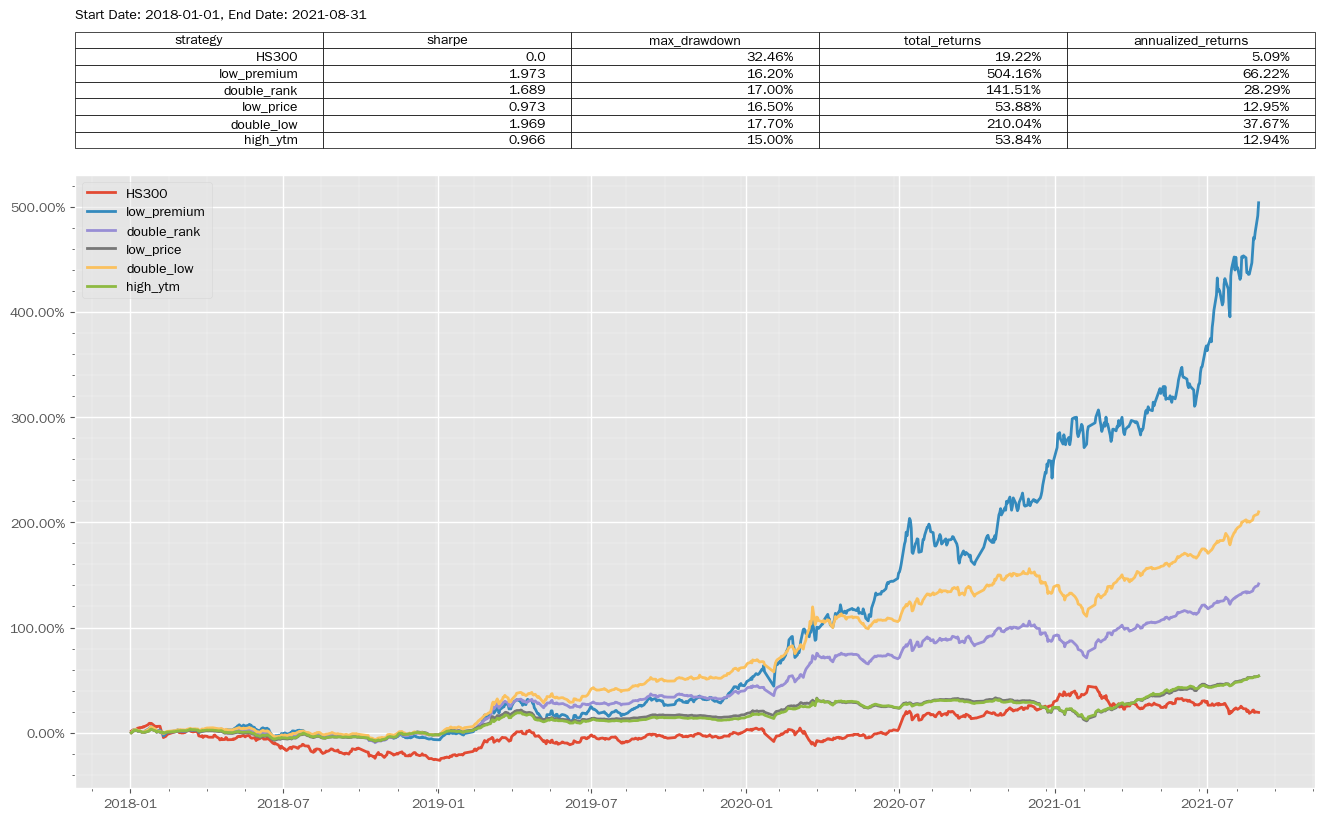
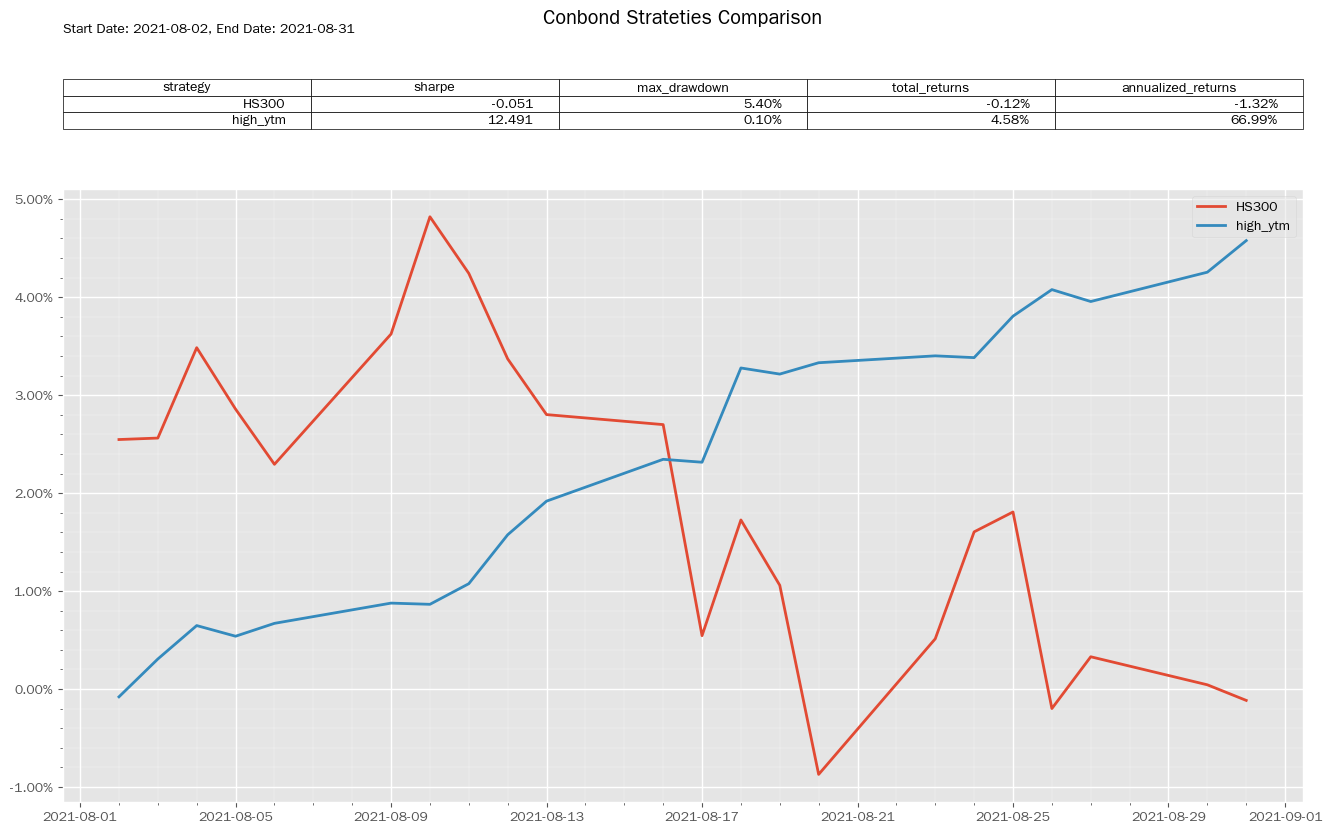
Sharpe for benchmark

diff --git a/library/conbond/strategy.py b/library/conbond/strategy.py
@@ -24,14 +24,7 @@ def multi_factors_weighted_linear(df, txn_day, config, score_col, rank_col):
 
 
 def post_scoring(df, txn_day, config, score_col, rank_col):
-    df = apply_filters(df, config['filters'], txn_day)
-    df = df.sort_values(score_col, ascending=config['asc']).reset_index()
-    df[rank_col] = df.index.to_series()
-    return df.set_index('order_book_id')
-
-
-def apply_filters(df, filters, today):
-    def filter_conbond(bond, filters=filters, today=today):
+    def filter_conbond(bond, filters=config['filters'], today=txn_day):
         values = bond.to_dict()
         values['today'] = str(today)
         for reason, cond in filters.items():
@@ -42,8 +35,104 @@ def apply_filters(df, filters, today):
                 print(cond.format(**values))
                 raise e
         return False, ''
-
     df[['filtered', 'filtered_reason']] = df.apply(filter_conbond,
                                                    axis=1,
                                                    result_type='expand')
-    return df
+    df = df.sort_values(score_col, ascending=config['asc']).reset_index()
+    df[rank_col] = df.index.to_series()
+    return df.set_index('order_book_id')
+
+
+def plot_results(results, savefile=None):
+    from matplotlib import rcParams, gridspec, ticker, image as mpimg, pyplot as plt
+    from matplotlib.font_manager import findfont, FontProperties
+    import numpy as np
+
+    rcParams['font.family'] = 'sans-serif'
+    rcParams['font.sans-serif'] = [
+        u'Microsoft Yahei',
+        u'Heiti SC',
+        u'Heiti TC',
+        u'STHeiti',
+        u'WenQuanYi Zen Hei',
+        u'WenQuanYi Micro Hei',
+        u'文泉驿微米黑',
+        u'SimHei',
+    ] + rcParams['font.sans-serif']
+    rcParams['axes.unicode_minus'] = False
+
+    use_chinese_fonts = True
+    font = findfont(FontProperties(family=['sans-serif']))
+    if '/matplotlib/' in font:
+        use_chinese_fonts = False
+        logging.warn('Missing Chinese fonts. Fallback to English.')
+
+    title = 'Conbond Strateties Comparison'
+    benchmark_portfolio = None
+    start_date = None
+    end_date = None
+    plt.style.use('ggplot')
+    img_width = 16
+    img_height = 10
+    fig = plt.figure(title, figsize=(img_width, img_height))
+    gs = gridspec.GridSpec(img_height, img_width)
+    ax = plt.subplot(gs[2:img_height, :])
+    ax.get_xaxis().set_minor_locator(ticker.AutoMinorLocator())
+    ax.get_yaxis().set_minor_locator(ticker.AutoMinorLocator())
+    ax.grid(b=True, which='minor', linewidth=.2)
+    ax.grid(b=True, which='major', linewidth=1)
+    table_data = {}
+    table_columns = [
+        'sharpe', 'max_drawdown', 'total_returns', 'annualized_returns'
+    ]
+    for strategy, result_dict in results.items():
+        summary = result_dict['summary']
+
+        if benchmark_portfolio is None:
+            benchmark_portfolio = result_dict.get('benchmark_portfolio')
+            start_date = result_dict.get('summary')['start_date']
+            end_date = result_dict.get('summary')['end_date']
+            index = benchmark_portfolio.index
+            portfolio_value = benchmark_portfolio.unit_net_value
+            xs = portfolio_value.values
+            rt = benchmark_portfolio.unit_net_value.values
+            ax.plot(benchmark_portfolio['unit_net_value'] - 1.0,
+                    label='HS300',
+                    alpha=1,
+                    linewidth=2)
+            table_data['HS300'] = [
+                summary['benchmark_sharpe'], summary['benchmark_max_drawdown'],
+                summary['benchmark_total_returns'],
+                summary['benchmark_annualized_returns']
+            ]
+        table_data[strategy] = [summary[col] for col in table_columns]
+
+        portfolio = result_dict['portfolio']
+        ax.plot(portfolio['unit_net_value'] - 1.0,
+                label=strategy,
+                alpha=1,
+                linewidth=2)
+
+    # place legend
+    leg = plt.legend(loc='best')
+    leg.get_frame().set_alpha(0.5)
+
+    # manipulate axis
+    vals = ax.get_yticks()
+    ax.set_yticklabels(['{:3.2f}%'.format(x * 100) for x in vals])
+
+    df = pd.DataFrame.from_dict(table_data,
+                                orient='index',
+                                columns=table_columns).reset_index().rename(
+                                    columns={'index': 'strategy'})
+    df[['max_drawdown', 'total_returns', 'annualized_returns'
+        ]] = df[['max_drawdown', 'total_returns',
+                 'annualized_returns']].applymap('{0:.2%}'.format)
+    ax2 = plt.subplot(gs[0:2, :])
+    ax2.set_title(title)
+    ax2.text(0, 1, 'Start Date: %s, End Date: %s' % (start_date, end_date))
+    ax2.table(cellText=df.values, colLabels=df.columns, loc='center')
+    ax2.axis('off')
+
+    if savefile:
+        plt.savefig(savefile, bbox_inches='tight')

diff --git a/examples/backtest.py b/examples/backtest.py
@@ -93,109 +93,6 @@ def rebalance(context, bar_dict):
             logging.info('Order error: %s' % order)
 
 
-def plot_results(results, savefile=None):
-    from matplotlib import rcParams, gridspec, ticker, image as mpimg, pyplot as plt
-    from matplotlib.font_manager import findfont, FontProperties
-    import numpy as np
-
-    rcParams['font.family'] = 'sans-serif'
-    rcParams['font.sans-serif'] = [
-        u'Microsoft Yahei',
-        u'Heiti SC',
-        u'Heiti TC',
-        u'STHeiti',
-        u'WenQuanYi Zen Hei',
-        u'WenQuanYi Micro Hei',
-        u'文泉驿微米黑',
-        u'SimHei',
-    ] + rcParams['font.sans-serif']
-    rcParams['axes.unicode_minus'] = False
-
-    use_chinese_fonts = True
-    font = findfont(FontProperties(family=['sans-serif']))
-    if '/matplotlib/' in font:
-        use_chinese_fonts = False
-        logging.warn('Missing Chinese fonts. Fallback to English.')
-
-    title = 'Conbond Strateties Comparison'
-    benchmark_portfolio = None
-    start_date = None
-    end_date = None
-    plt.style.use('ggplot')
-    img_width = 16
-    img_height = 10
-    fig = plt.figure(title, figsize=(img_width, img_height))
-    gs = gridspec.GridSpec(img_height, img_width)
-    ax = plt.subplot(gs[2:img_height, :])
-    ax.get_xaxis().set_minor_locator(ticker.AutoMinorLocator())
-    ax.get_yaxis().set_minor_locator(ticker.AutoMinorLocator())
-    ax.grid(b=True, which='minor', linewidth=.2)
-    ax.grid(b=True, which='major', linewidth=1)
-    table_data = {}
-    table_columns = [
-        'sharpe', 'max_drawdown', 'total_returns', 'annualized_returns'
-    ]
-    for strategy, result_dict in results.items():
-        summary = result_dict['summary']
-
-        if benchmark_portfolio is None:
-            benchmark_portfolio = result_dict.get('benchmark_portfolio')
-            start_date = result_dict.get('summary')['start_date']
-            end_date = result_dict.get('summary')['end_date']
-            index = benchmark_portfolio.index
-            portfolio_value = benchmark_portfolio.unit_net_value
-            xs = portfolio_value.values
-            rt = benchmark_portfolio.unit_net_value.values
-            max_dd_end = np.argmax(np.maximum.accumulate(xs) / xs)
-            if max_dd_end == 0:
-                max_dd_end = len(xs) - 1
-            max_dd_start = np.argmax(xs[:max_dd_end]) if max_dd_end > 0 else 0
-            max_dd = (
-                benchmark_portfolio.loc[index[max_dd_start]].unit_net_value -
-                benchmark_portfolio.loc[index[max_dd_end]].unit_net_value
-            ) / benchmark_portfolio.loc[index[max_dd_start]].unit_net_value
-            ax.plot(benchmark_portfolio['unit_net_value'] - 1.0,
-                    label='HS300',
-                    alpha=1,
-                    linewidth=2)
-            table_data['HS300'] = [
-                0, max_dd, summary['benchmark_total_returns'],
-                summary['benchmark_annualized_returns']
-            ]
-        table_data[strategy] = [summary[col] for col in table_columns]
-
-        portfolio = result_dict['portfolio']
-        ax.plot(portfolio['unit_net_value'] - 1.0,
-                label=strategy,
-                alpha=1,
-                linewidth=2)
-
-    # place legend
-    leg = plt.legend(loc='best')
-    leg.get_frame().set_alpha(0.5)
-
-    # manipulate axis
-    vals = ax.get_yticks()
-    ax.set_yticklabels(['{:3.2f}%'.format(x * 100) for x in vals])
-
-    df = pd.DataFrame.from_dict(table_data,
-                                orient='index',
-                                columns=table_columns).reset_index().rename(
-                                    columns={'index': 'strategy'})
-    df[['max_drawdown', 'total_returns', 'annualized_returns'
-        ]] = df[['max_drawdown', 'total_returns',
-                 'annualized_returns']].applymap('{0:.2%}'.format)
-    ax2 = plt.subplot(gs[0:2, :])
-    ax2.set_title(title)
-    ax2.text(0, 1, 'Start Date: %s, End Date: %s' % (start_date, end_date))
-    ax2.table(cellText=df.values, colLabels=df.columns, loc='center')
-    ax2.axis('off')
-    #  ax2.axis('tight')
-
-    if savefile:
-        plt.savefig(savefile, bbox_inches='tight')
-
-
 def backtest(sc, run_dir, cache_dir):
     p = pathlib.Path(sc)
     print(p)
@@ -290,7 +187,7 @@ def main(argv):
         k, r = backtest(sc, run_dir, FLAGS.cache_dir)
         results[k] = r['sys_analyser']
     print('Run dir: {0}, log: {0}/debug.log'.format(run_dir))
-    plot_results(results, savefile='results.png')
+    strategy.plot_results(results, savefile='results.png')
 
 
 if __name__ == '__main__':

diff --git a/README.md b/README.md
@@ -80,6 +80,7 @@ pip install -e .
   * 回售博弈
   * ...
 * 优化现有策略，考虑其他的因子，比如规模，评级等
+* 在图上增加最大回撤日期等
 
 ## Change Log
 
